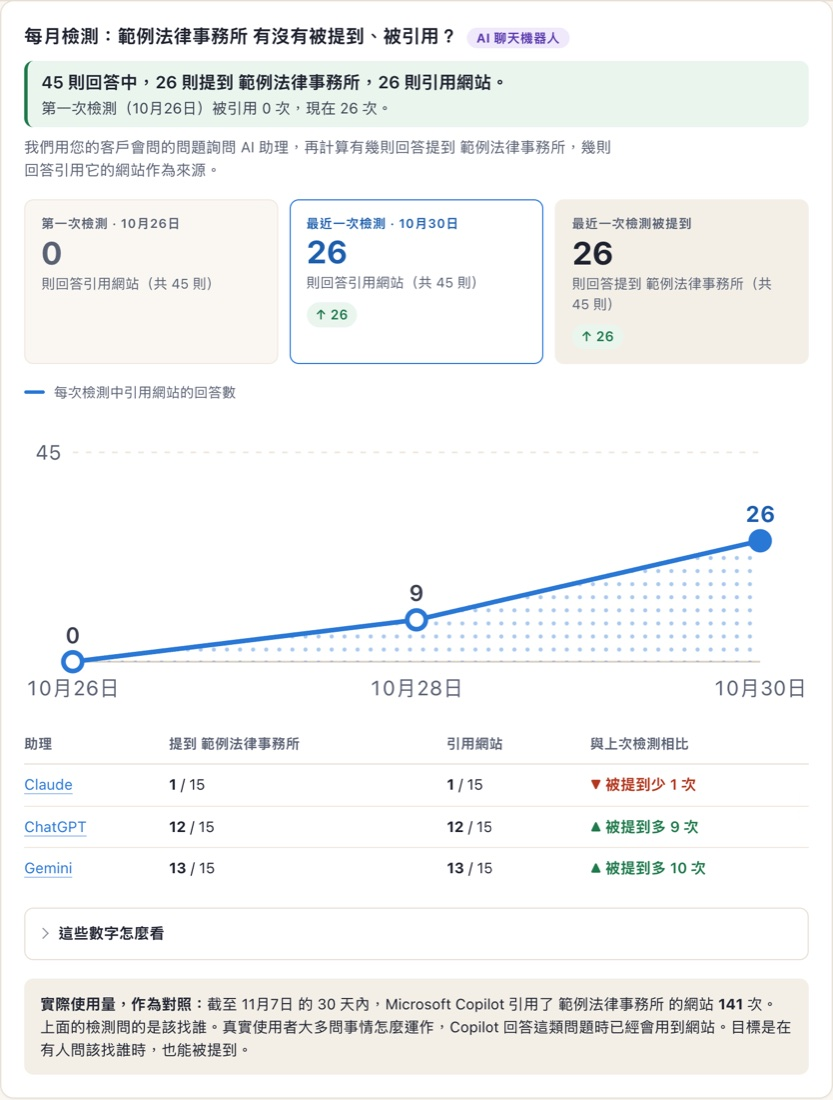
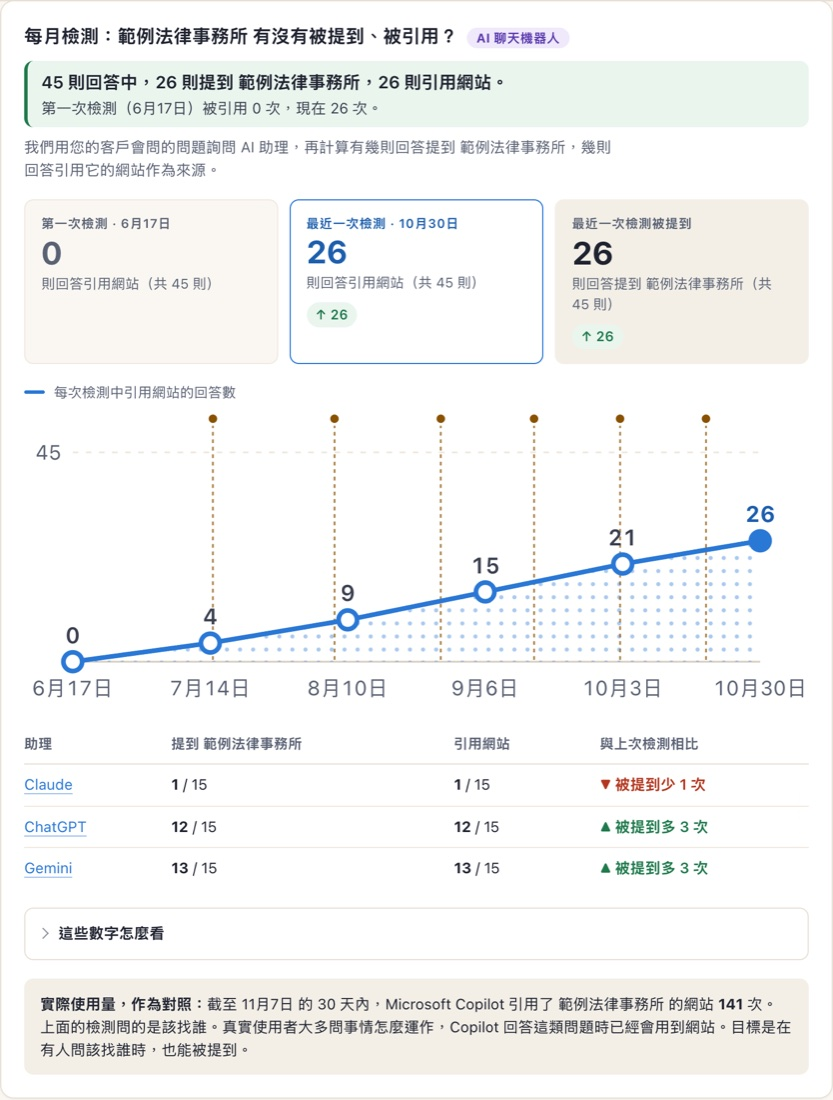
Engine card: longer monthly demo chart (6 checks, Jun to Oct), captioned demo data
Claude-Session: https://claude.ai/code/session_01Xw6qwDoa1RgdJ2gqcAdbdJ

diff --git a/scripts/v2/bodies/en/home.html b/scripts/v2/bodies/en/home.html
@@ -130,8 +130,8 @@ ld: [{"@type":"FAQPage","mainEntity":[{"@type":"Question","name":"What does Ship
       </div>
       <figure class="shot rv" style="max-width:540px;justify-self:center">
         <div class="bar" aria-hidden="true"><i></i><i></i><i></i><span>Monthly check</span></div>
-        <img src="/assets/v2/img/engine-monthly-en.jpg" width="833" height="1100" alt="Ship to Live AI Visibility Engine monthly check: AI answers citing a client site went from 0 to 26 of 45 in four days (real client results, name changed)" loading="lazy">
-        <figcaption>Real system screen (real client results, name hidden)</figcaption>
+        <img src="/assets/v2/img/engine-monthly-en.jpg" width="833" height="1100" alt="Ship to Live AI Visibility Engine monthly check: how often AI answers name and cite the site, month by month (demo data, fictional company)" loading="lazy">
+        <figcaption>Real system screen (demo data)</figcaption>
       </figure>
     </div>
     <div class="cta-box rv">

diff --git a/index.html b/index.html
@@ -268,8 +268,8 @@
       </div>
       <figure class="shot rv" style="max-width:540px;justify-self:center">
         <div class="bar" aria-hidden="true"><i></i><i></i><i></i><span>每月檢測</span></div>
-        <img src="/assets/v2/img/engine-monthly.jpg" width="833" height="1100" alt="夏裕 AI 曝光引擎每月檢測：45 則 AI 回答中，引用客戶網站的次數 4 天內從 0 增加到 26（真實客戶數據，名稱已改為範例）" loading="lazy">
-        <figcaption>實際系統畫面（真實客戶數據，名稱已隱藏）</figcaption>
+        <img src="/assets/v2/img/engine-monthly.jpg" width="833" height="1100" alt="夏裕 AI 曝光引擎每月檢測：AI 回答提到與引用網站的次數逐月變化（示範資料，公司名稱為虛構）" loading="lazy">
+        <figcaption>實際系統畫面（示範資料）</figcaption>
       </figure>
     </div>
     <div class="cta-box rv">

diff --git a/en/index.html b/en/index.html
@@ -268,8 +268,8 @@
       </div>
       <figure class="shot rv" style="max-width:540px;justify-self:center">
         <div class="bar" aria-hidden="true"><i></i><i></i><i></i><span>Monthly check</span></div>
-        <img src="/assets/v2/img/engine-monthly-en.jpg" width="833" height="1100" alt="Ship to Live AI Visibility Engine monthly check: AI answers citing a client site went from 0 to 26 of 45 in four days (real client results, name changed)" loading="lazy">
-        <figcaption>Real system screen (real client results, name hidden)</figcaption>
+        <img src="/assets/v2/img/engine-monthly-en.jpg" width="833" height="1100" alt="Ship to Live AI Visibility Engine monthly check: how often AI answers name and cite the site, month by month (demo data, fictional company)" loading="lazy">
+        <figcaption>Real system screen (demo data)</figcaption>
       </figure>
     </div>
     <div class="cta-box rv">
